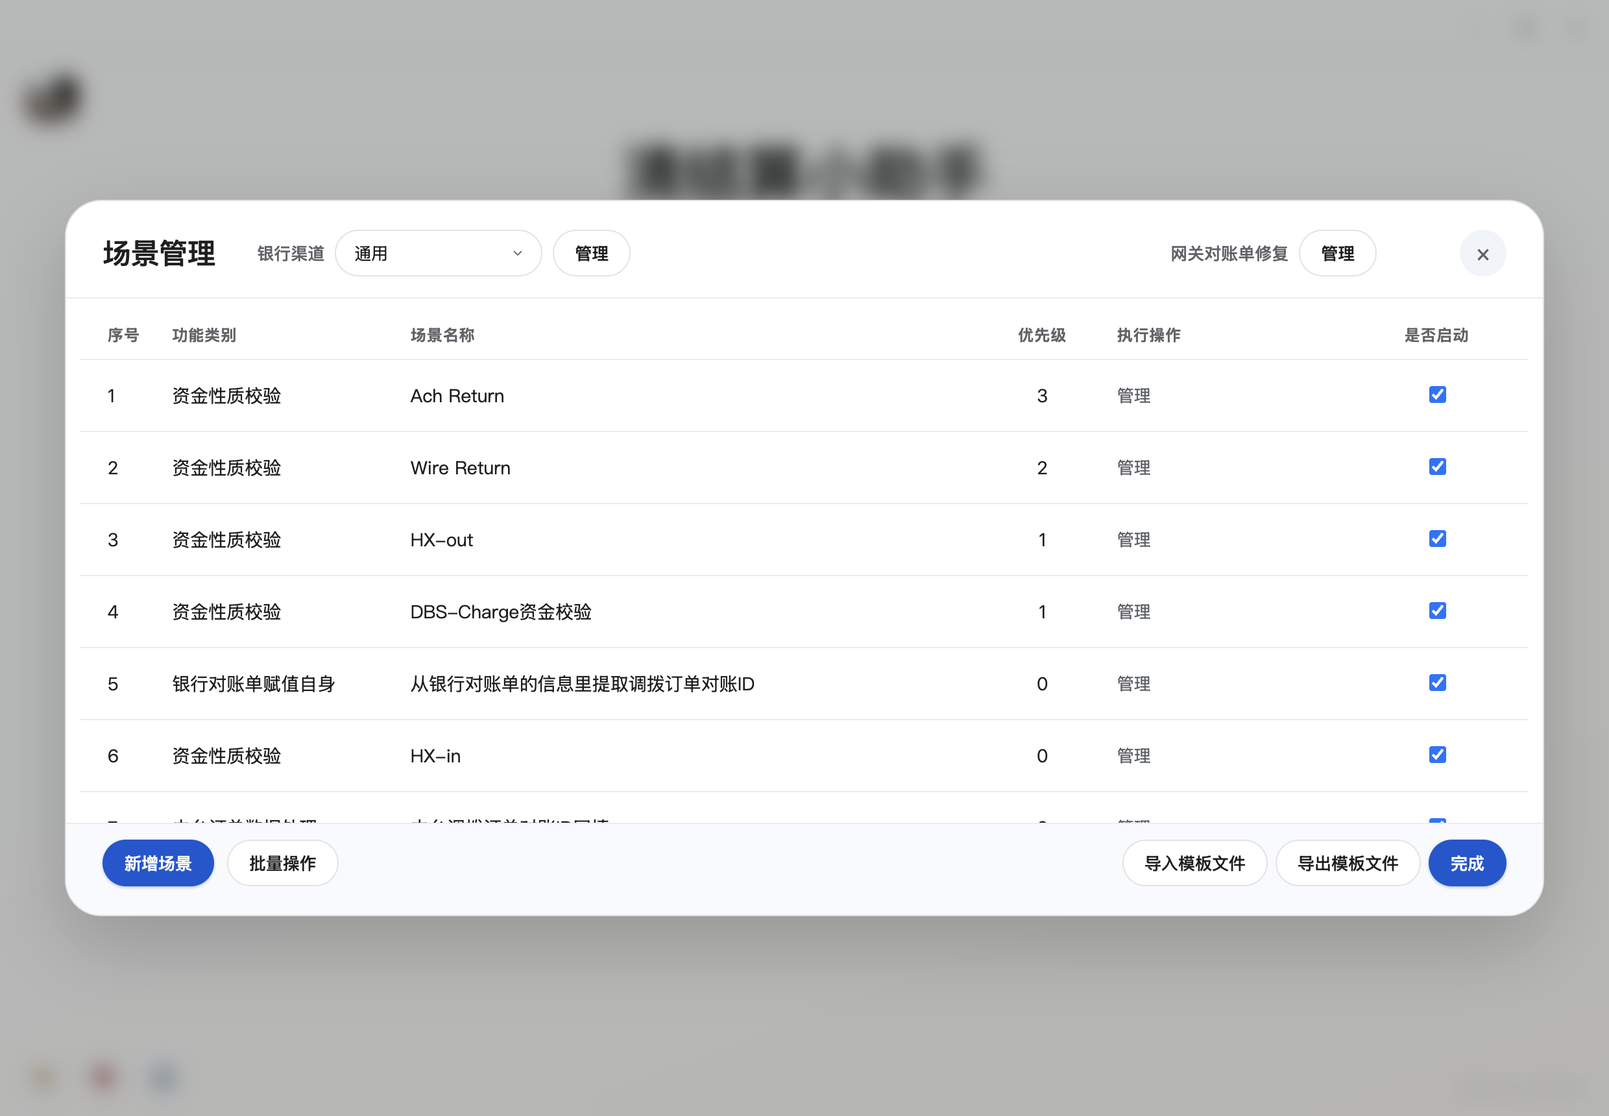
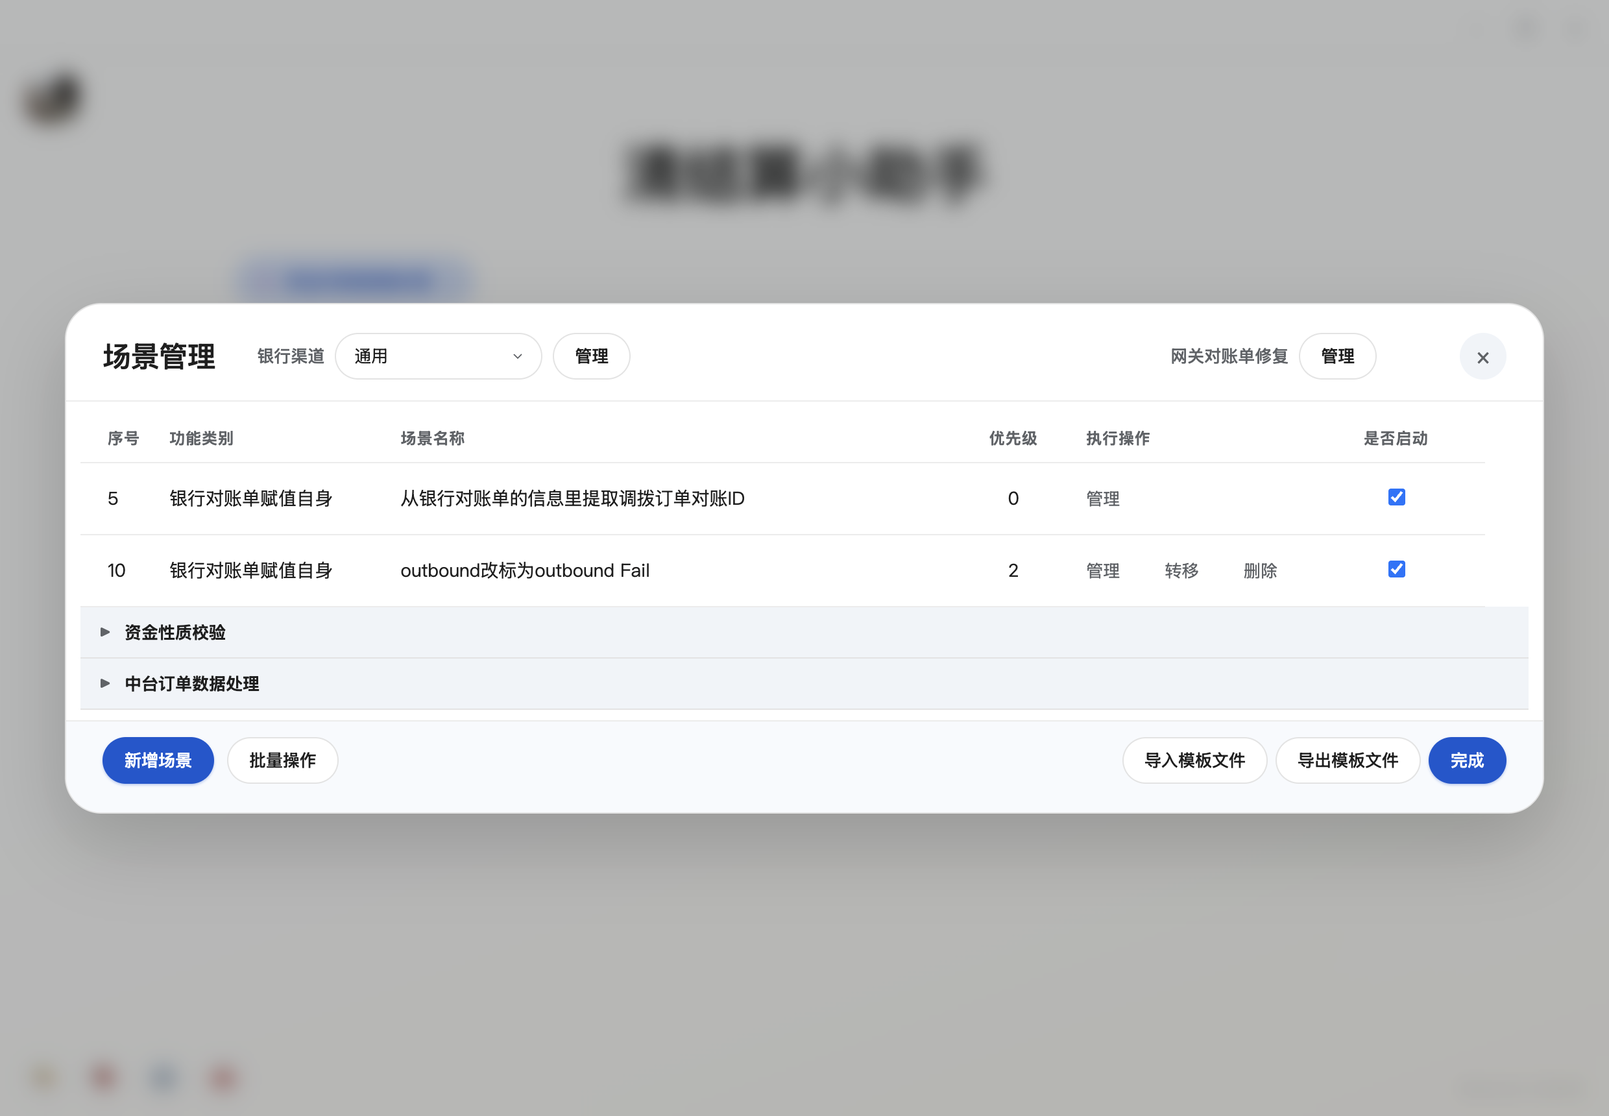
[v3.0.8] 需求2 场景管理：退役 C3（前端隐藏，后端保留可回滚）+ 资金性质校验/中台订单两组三角折叠默认收纳

diff --git a/tests/unit/renderer-dialogs-scenario-group-collapse.test.js b/tests/unit/renderer-dialogs-scenario-group-collapse.test.js
@@ -1,0 +1,182 @@
+// v3.0.8 需求2（W6）：场景管理「退役 C3 + 分组三角折叠」前端源码断言
+//
+// renderer-dialogs.js 是 10000+ 行的浏览器 IIFE（依赖 DOM + deps 注入），无 jsdom 单测脚手架，
+// 故沿用本仓既有范式（renderer-dialogs-scenario-channel.test.js / renderer-dialogs-toolbox.test.js）：
+// 用源码字符串断言锁定关键交互/边界，防止后续重构无意回退。
+// 可视布局（默认两组收纳 + C3 消失）由 preview 截图 docs/previews/scenarios-manager.png 把关；
+// 展开/折叠端到端行为由手动测试把关（preview harness 同步 click 会扰动 modal 生命周期，无法稳定截图展开态）。
+//
+// 锁定要点（对齐 PRD v3.0.8 §5.2 + AC2-1..AC2-3；团队 W6 决策：仅前端过滤隐藏，零 migration 改动）：
+//   A. 退役 C3：refreshTable 渲染前过滤 category==='gateway-recon-join' 不显示（用户看不到、无法启用）。
+//   B. 分组：两大功能分组「资金性质校验」(fund-nature-check + dbs-charge-fund-check) /
+//      「中台订单数据处理」(platform-order)，组名复用 FUNC_CATEGORY_LABELS。
+//   C. 三角折叠：分组标题行 ▶/▼ + 子场景行按折叠态显隐，两组默认 collapsed；点三角 toggle。
+
+const { test, describe } = require('node:test');
+const assert = require('node:assert');
+const fs = require('node:fs');
+const path = require('node:path');
+
+const DIALOGS_PATH = path.join(__dirname, '..', '..', 'src', 'renderer-dialogs.js');
+const source = fs.readFileSync(DIALOGS_PATH, 'utf8');
+
+// 截取 createScenariosManagerDialog 函数体（从其声明到下一个同缩进 4 空格顶层 function 之前），
+// 缩小断言作用域，避免误命中文件别处同名字符串。
+function sliceScenariosManagerDialog(src) {
+  const startToken = 'function createScenariosManagerDialog(';
+  const startIdx = src.indexOf(startToken);
+  assert.ok(startIdx >= 0, '源码应包含 createScenariosManagerDialog 工厂');
+  const after = src.indexOf('\n    function ', startIdx + startToken.length);
+  return after >= 0 ? src.slice(startIdx, after) : src.slice(startIdx);
+}
+
+const dialogSrc = sliceScenariosManagerDialog(source);
+
+describe('W6-A：退役 C3（仅前端过滤隐藏，零 migration 改动）', () => {
+  test('refreshTable 渲染前过滤 category==="gateway-recon-join" 不显示', () => {
+    // 关键过滤行：const scenarios = scenariosRaw.filter((s) => s.category !== 'gateway-recon-join');
+    assert.ok(
+      /\.filter\(\s*\(s\)\s*=>\s*s\.category\s*!==\s*'gateway-recon-join'\s*\)/.test(dialogSrc),
+      'refreshTable 应过滤掉 category==="gateway-recon-join" 的场景（C3 退役隐藏）'
+    );
+  });
+
+  test('过滤发生在补 config / 白名单 / 渠道过滤之前（用 scenariosRaw → scenarios 命名）', () => {
+    // 先 load 到 scenariosRaw，过滤 C3 得到 scenarios，后续链路全部基于已剔除 C3 的 scenarios。
+    assert.ok(
+      dialogSrc.includes('const scenariosRaw = await loadScenariosOrAlert();'),
+      'refreshTable 应先 load 到 scenariosRaw'
+    );
+    const filterIdx = dialogSrc.indexOf("s.category !== 'gateway-recon-join'");
+    const builtinConfigIdx = dialogSrc.indexOf(".filter((s) => s.category === 'builtin-fixed')");
+    assert.ok(filterIdx >= 0 && builtinConfigIdx >= 0 && filterIdx < builtinConfigIdx,
+      'C3 过滤应早于 builtin-fixed 补 config（确保 C3 不参与任何后续渲染分支）');
+  });
+
+  test('不触碰后端：本前端改动不引入 migrations / 引擎 / dispatcher 改动（注释明确可回滚红线）', () => {
+    // 退役策略注释应说明「仅前端过滤隐藏」「后端全不动」。
+    assert.ok(/仅前端过滤隐藏/.test(dialogSrc), '应注明退役策略为仅前端过滤隐藏（可回滚）');
+  });
+});
+
+describe('W6-B：两大功能分组（组名复用 FUNC_CATEGORY_LABELS）', () => {
+  test('定义 SCENARIO_GROUP_DEFS：资金性质校验组含 fund-nature-check + dbs-charge-fund-check', () => {
+    assert.ok(dialogSrc.includes('const SCENARIO_GROUP_DEFS = ['), '应定义 SCENARIO_GROUP_DEFS');
+    assert.ok(
+      /key:\s*'fund-nature-check'[\s\S]*?funcCategories:\s*\[\s*'fund-nature-check'\s*,\s*'dbs-charge-fund-check'\s*\]/.test(dialogSrc),
+      '资金性质校验组应归并 fund-nature-check + dbs-charge-fund-check'
+    );
+  });
+
+  test('中台订单数据处理组 = platform-order', () => {
+    assert.ok(
+      /key:\s*'platform-order'[\s\S]*?funcCategories:\s*\[\s*'platform-order'\s*\]/.test(dialogSrc),
+      '中台订单数据处理组应为 platform-order'
+    );
+  });
+
+  test('组名复用 FUNC_CATEGORY_LABELS（避免硬编码漂移）', () => {
+    assert.ok(
+      dialogSrc.includes("label: FUNC_CATEGORY_LABELS['fund-nature-check']")
+      && dialogSrc.includes("label: FUNC_CATEGORY_LABELS['platform-order']"),
+      'SCENARIO_GROUP_DEFS 的 label 应取自 FUNC_CATEGORY_LABELS'
+    );
+  });
+
+  test('getScenarioGroupKey：无 funcCategory（含 C1/C2/无 funcCategory 的 builtin-fixed）→ null（扁平）', () => {
+    assert.ok(dialogSrc.includes('function getScenarioGroupKey(scenario)'), '应有 getScenarioGroupKey');
+    // funcCategory 缺失 → return null（扁平显示，不强制分组）
+    assert.ok(
+      /function getScenarioGroupKey\(scenario\)\s*\{[\s\S]*?if\s*\(!funcCategory\)\s*return null;/.test(dialogSrc),
+      'getScenarioGroupKey 对无 funcCategory 的场景返回 null（扁平）'
+    );
+  });
+});
+
+describe('W6-C：三角折叠 + 默认收纳', () => {
+  test('两组默认 collapsed：collapsedGroups 初始含全部分组 key', () => {
+    assert.ok(
+      dialogSrc.includes('const collapsedGroups = new Set(SCENARIO_GROUP_DEFS.map((g) => g.key));'),
+      'collapsedGroups 应初始化为全部分组 key（两组默认收纳）'
+    );
+  });
+
+  test('分组标题行带 ▶/▼ 三角 + data-action="toggle-group"', () => {
+    assert.ok(dialogSrc.includes('function renderGroupHeaderRow('), '应有 renderGroupHeaderRow');
+    assert.ok(dialogSrc.includes("scenario-group-header"), '分组标题行应有 .scenario-group-header class');
+    assert.ok(
+      /const triangle = collapsed \? '▶' : '▼';/.test(dialogSrc),
+      '折叠态用 ▶、展开态用 ▼'
+    );
+    assert.ok(dialogSrc.includes('data-action="toggle-group"'), '标题行三角按钮带 data-action="toggle-group"');
+    assert.ok(dialogSrc.includes('class="scenario-group-toggle"'), '应有 .scenario-group-toggle 按钮');
+  });
+
+  test('分组标题行 colspan 跟随可见列数（checkbox+id+category+name+actions 基础 5 列 + 优先级/启用）', () => {
+    assert.ok(dialogSrc.includes('function getScenarioTableColSpan()'), '应有 getScenarioTableColSpan');
+    assert.ok(
+      /return 5 \+ \(isCompactView \? 0 : 1\) \+ \(showEnabledCol \? 1 : 0\);/.test(dialogSrc),
+      'colspan = 5 + (非compact 的优先级列) + (showEnabledCol 的启用列)'
+    );
+  });
+
+  test('子场景行标记 data-group + scenario-group-row，初始折叠态加 .collapsed', () => {
+    assert.ok(
+      /tr\.dataset\.group = groupKey;[\s\S]*?tr\.classList\.add\('scenario-group-row'\);[\s\S]*?if \(collapsedGroups\.has\(groupKey\)\) tr\.classList\.add\('collapsed'\);/.test(dialogSrc),
+      'renderRow 对分组子行应打 data-group + scenario-group-row，并按 collapsedGroups 加 .collapsed'
+    );
+  });
+
+  test('refreshTable 分组渲染：扁平场景先渲染，再每组插标题 + 子行；空组不渲标题', () => {
+    assert.ok(
+      dialogSrc.includes('const flatScenarios = visible.filter((s) => getScenarioGroupKey(s) === null);'),
+      '应先取无分组（扁平）场景'
+    );
+    assert.ok(
+      dialogSrc.includes('tbody.appendChild(renderGroupHeaderRow(group.key, group.label, collapsed));'),
+      '应为每个非空组渲染分组标题行'
+    );
+    assert.ok(
+      /if \(members\.length === 0\) return;/.test(dialogSrc),
+      '空组（无场景）不渲分组标题'
+    );
+  });
+
+  test('🔴 N3-1 红线：序号列用 scenario.displayIndex（派发口径），不用分组重排位置序数', () => {
+    // 分组只改渲染顺序，序号必须仍是 scenarios-repository 渠道内 builtin-fixed 优先 1-based displayIndex，
+    // 与 run 状态框 / 命中场景行报表共享同一口径（否则状态框「场景 N」与 UI 序号串号 → N3-1 修复失效）。
+    assert.ok(
+      /const displayNumberOf = \(scenario, fallbackPos\) =>\s*\n?\s*Number\.isFinite\(Number\(scenario\.displayIndex\)\)\s*\?\s*Number\(scenario\.displayIndex\)\s*:\s*fallbackPos;/.test(dialogSrc),
+      '应定义 displayNumberOf：优先 scenario.displayIndex，缺失才回退位次'
+    );
+    assert.ok(
+      dialogSrc.includes('renderRow(scenario, displayNumberOf(scenario, fallbackPos), null)')
+      && dialogSrc.includes('renderRow(scenario, displayNumberOf(scenario, fallbackPos), group.key)'),
+      '扁平行与分组子行的序号都走 displayNumberOf（统一派发口径）'
+    );
+    // 防回退：tbody.appendChild 渲染调用不得直接把递增位置序数当序号传入（须经 displayNumberOf）。
+    assert.ok(
+      !/appendChild\(renderRow\(scenario, displayIndex,/.test(dialogSrc),
+      '渲染调用不得直接用位置序数 displayIndex 作为序号（会破坏 N3-1 一致性）'
+    );
+  });
+
+  test('toggleScenarioGroup：翻转 collapsedGroups + 子行 .collapsed + 三角字符', () => {
+    assert.ok(dialogSrc.includes('function toggleScenarioGroup(groupKey)'), '应有 toggleScenarioGroup');
+    assert.ok(
+      /tr\.classList\.toggle\('collapsed', willCollapse\);/.test(dialogSrc),
+      'toggle 时子行按 willCollapse 切换 .collapsed'
+    );
+    assert.ok(
+      /triangle\.textContent = willCollapse \? '▶' : '▼';/.test(dialogSrc),
+      'toggle 时三角字符随折叠态翻转'
+    );
+  });
+
+  test('tbody click 委托优先处理 toggle-group（先于 row-action 行操作）', () => {
+    assert.ok(
+      /const groupToggle = event\.target\.closest\('\[data-action="toggle-group"\]'\);[\s\S]*?toggleScenarioGroup\(groupToggle\.dataset\.group\);[\s\S]*?return;/.test(dialogSrc),
+      'tbody click handler 应先识别 toggle-group 并调 toggleScenarioGroup'
+    );
+  });
+});

diff --git a/src/renderer-dialogs.js b/src/renderer-dialogs.js
@@ -6867,12 +6867,65 @@
         : 1;
       state.activeScenarioChannelId = activeChannelId;
 
-      function renderRow(scenario, displayIndex) {
+      // v3.0.8 需求2（W6）：场景管理两大功能分组三角折叠。
+      //   分组键 = config.funcCategory 归并：
+      //     - 'fund-nature-check' + 'dbs-charge-fund-check' → 组「资金性质校验」（groupKey='fund-nature-check'）
+      //     - 'platform-order'                              → 组「中台订单数据处理」（groupKey='platform-order'）
+      //   无 funcCategory 或不在上述集合的场景（既有 builtin-fixed「从银行对账单提取调拨订单对账ID」/ C1 / C2 等）
+      //   → groupKey=null，保持原扁平显示（不强制分组、不折叠）。
+      //   组名复用 FUNC_CATEGORY_LABELS（renderer-dialogs.js:5621），避免硬编码漂移。
+      const SCENARIO_GROUP_DEFS = [
+        { key: 'fund-nature-check', label: FUNC_CATEGORY_LABELS['fund-nature-check'], funcCategories: ['fund-nature-check', 'dbs-charge-fund-check'] },
+        { key: 'platform-order', label: FUNC_CATEGORY_LABELS['platform-order'], funcCategories: ['platform-order'] }
+      ];
+      // 两组默认 collapsed（收纳）；折叠态为前端临时状态（不持久化，每次打开弹框默认收纳）。
+      const collapsedGroups = new Set(SCENARIO_GROUP_DEFS.map((g) => g.key));
+
+      // 取场景所属分组键（无匹配 → null = 扁平显示）。
+      function getScenarioGroupKey(scenario) {
+        const funcCategory = scenario && scenario.config && scenario.config.funcCategory;
+        if (!funcCategory) return null;
+        const hit = SCENARIO_GROUP_DEFS.find((g) => g.funcCategories.includes(funcCategory));
+        return hit ? hit.key : null;
+      }
+
+      // 当前表格可见列数（用于分组标题行 colspan）：
+      //   勾选列（始终存在，仅 display 切换）+ 序号 + 功能类别 + 场景名称 + 执行操作 = 5 基础列；
+      //   优先级（非 compact）+ 是否启动（showEnabledCol）按视图模式叠加。
+      function getScenarioTableColSpan() {
+        return 5 + (isCompactView ? 0 : 1) + (showEnabledCol ? 1 : 0);
+      }
+
+      // 渲染分组标题行（含 ▶/▼ 三角 + 组名）。子场景行带 data-group=groupKey，按折叠态显隐。
+      function renderGroupHeaderRow(groupKey, label, collapsed) {
+        const tr = document.createElement('tr');
+        tr.className = 'scenario-group-header';
+        tr.dataset.groupHeader = groupKey;
+        const triangle = collapsed ? '▶' : '▼';
+        tr.innerHTML = `
+          <td class="scenario-group-header-cell" colspan="${getScenarioTableColSpan()}">
+            <button type="button" class="scenario-group-toggle" data-action="toggle-group" data-group="${escapeHtml(groupKey)}" aria-expanded="${collapsed ? 'false' : 'true'}">
+              <span class="scenario-group-triangle">${triangle}</span>
+              <span class="scenario-group-label">${escapeHtml(label)}</span>
+            </button>
+          </td>
+        `;
+        return tr;
+      }
+
+      function renderRow(scenario, displayIndex, groupKey) {
         const tr = document.createElement('tr');
         tr.dataset.id = String(scenario.id);
         tr.dataset.category = scenario.category;
         // v2.1.16-beta.5 需求2（PR-4 修订）：标记 is_builtin → 批量收集（collectChecked*）据此双保险排除内置写死场景。
         tr.dataset.builtin = scenario.isBuiltin === true ? '1' : '0';
+        // v3.0.8 需求2（W6）：分组子场景行标记 data-group + scenario-group-row class；折叠态加 .collapsed（CSS display:none）。
+        //   扁平行 groupKey=null 不标记、恒显。
+        if (groupKey) {
+          tr.dataset.group = groupKey;
+          tr.classList.add('scenario-group-row');
+          if (collapsedGroups.has(groupKey)) tr.classList.add('collapsed');
+        }
         // v2.1.0-beta.2 PR-A Round 2：
         // - task R2-7：序号 = 列表内 1-based 顺序号（不再用真实 scenarios.id；dataset.id 仍是真实 id 用于 IPC）
         // - task R2-8：compact 模式（单类别入口）隐藏 优先级 + 是否启动 td
@@ -6982,8 +7035,12 @@
       }
 
       async function refreshTable() {
-        const scenarios = await loadScenariosOrAlert();
-        if (scenarios === null) return;
+        const scenariosRaw = await loadScenariosOrAlert();
+        if (scenariosRaw === null) return;
+        // v3.0.8 需求2（W6）：退役自带场景 C3「与网关对账单根据金额币种一对一匹配对账ID」（category='gateway-recon-join'）
+        //   —— 仅前端过滤隐藏（用户看不到、无法启用），最大可回滚、零 migration 风险。
+        //   后端引擎 / dispatcher case / CHECK 约束 / 已有库记录 / 新库 seed 全不动；新库 seed 的 enabled=0 C3 被此过滤等效退役。
+        const scenarios = scenariosRaw.filter((s) => s.category !== 'gateway-recon-join');
         // v2.1.16 需求1：listScenarios 不返 config → 为 builtin-fixed 行补 config，
         //   使「功能类别」列能按 config.funcCategory 显示业务分组（资金性质校验 / 中台订单数据处理）。
         await Promise.all(
@@ -7008,12 +7065,55 @@
         // v2.1.13 D-2：自带写死场景（builtin-fixed）置顶（序号固定 1）；其余保持 listScenarios 原序（stable sort）
         visible.sort((a, b) => (a.category === 'builtin-fixed' ? 0 : 1) - (b.category === 'builtin-fixed' ? 0 : 1));
         tbody.innerHTML = '';
-        // v2.1.0-beta.2 PR-A Round 2（task R2-7）：传 displayIndex（1-based 列表内顺序）给 renderRow
-        visible.forEach((scenario, idx) => {
-          tbody.appendChild(renderRow(scenario, idx + 1));
+        // v3.0.8 需求2（W6）：二级分组渲染（纯视觉重排，序号口径不变）。
+        //   ① 无分组场景（groupKey=null）保持原扁平显示，按上面的 builtin-first 顺序先渲染（含 C1/C2/既有 builtin-fixed）。
+        //   ② 「资金性质校验」「中台订单数据处理」两组各插一行分组标题（▶/▼ 三角），子场景行按折叠态显隐，默认 collapsed。
+        // 🔴 N3-1 一致性红线（rules/important-variables.md displayIndex）：序号列必须用 scenario.displayIndex
+        //   （scenarios-repository.listScenarios 渠道内 builtin-fixed 优先 1-based 派发口径，run 状态框 / 命中场景行报表共享同一份），
+        //   严禁用「分组重排后的位置序数」——否则 run 状态框「场景 N」与场景管理 UI 序号串号（N3-1 修复失效）。
+        //   分组只改渲染顺序与折叠显隐，不改任何场景的序号显示值；displayIndex 缺失时才回退列表位次（兜底）。
+        const displayNumberOf = (scenario, fallbackPos) =>
+          Number.isFinite(Number(scenario.displayIndex)) ? Number(scenario.displayIndex) : fallbackPos;
+        let fallbackPos = 0;
+        const flatScenarios = visible.filter((s) => getScenarioGroupKey(s) === null);
+        // v2.1.0-beta.2 PR-A Round 2（task R2-7）：序号优先取 displayIndex（派发口径），缺失才回退位次。
+        flatScenarios.forEach((scenario) => {
+          fallbackPos += 1;
+          tbody.appendChild(renderRow(scenario, displayNumberOf(scenario, fallbackPos), null));
+        });
+        SCENARIO_GROUP_DEFS.forEach((group) => {
+          const members = visible.filter((s) => getScenarioGroupKey(s) === group.key);
+          if (members.length === 0) return; // 该组无场景 → 不渲分组标题（避免空组）
+          const collapsed = collapsedGroups.has(group.key);
+          tbody.appendChild(renderGroupHeaderRow(group.key, group.label, collapsed));
+          members.forEach((scenario) => {
+            fallbackPos += 1;
+            tbody.appendChild(renderRow(scenario, displayNumberOf(scenario, fallbackPos), group.key));
+          });
         });
         // v2.1.9 N5 Phase 5 T21：refresh 后重置「全选」状态（新建 rows 都未勾）
         if (selectAllCheckbox) selectAllCheckbox.checked = false;
+      }
+
+      // v3.0.8 需求2（W6）：折叠态切换 —— 不重渲整表，仅翻转该组 collapsed 标志 + 显隐子行 + 翻转三角。
+      function toggleScenarioGroup(groupKey) {
+        if (!groupKey) return;
+        const willCollapse = !collapsedGroups.has(groupKey);
+        if (willCollapse) {
+          collapsedGroups.add(groupKey);
+        } else {
+          collapsedGroups.delete(groupKey);
+        }
+        tbody.querySelectorAll(`tr[data-group="${groupKey}"]`).forEach((tr) => {
+          tr.classList.toggle('collapsed', willCollapse);
+        });
+        const headerRow = tbody.querySelector(`tr[data-group-header="${groupKey}"]`);
+        if (headerRow) {
+          const toggleBtn = headerRow.querySelector('[data-action="toggle-group"]');
+          if (toggleBtn) toggleBtn.setAttribute('aria-expanded', willCollapse ? 'false' : 'true');
+          const triangle = headerRow.querySelector('.scenario-group-triangle');
+          if (triangle) triangle.textContent = willCollapse ? '▶' : '▼';
+        }
       }
 
       // v2.1.9 N5：拉取渠道列表 + 填充 select 下拉
@@ -7085,6 +7185,12 @@
 
       // 委托：单一 click handler 处理 tbody 内所有 row-action
       tbody.addEventListener('click', async (event) => {
+        // v3.0.8 需求2（W6）：分组标题三角折叠（不属于 row-action，先于行操作处理）。
+        const groupToggle = event.target.closest('[data-action="toggle-group"]');
+        if (groupToggle) {
+          toggleScenarioGroup(groupToggle.dataset.group);
+          return;
+        }
         const button = event.target.closest('[data-row-action]');
         if (!button) return;
         const tr = button.closest('tr');

diff --git a/src/styles-gemini-extra.css b/src/styles-gemini-extra.css
@@ -2328,6 +2328,53 @@ select.mapping-text-input {
   border-bottom-color: rgba(66, 133, 244, 0.32);
 }
 
+/* v3.0.8 需求2（W6）：场景管理两大功能分组三角折叠。
+ *   分组标题行（整行 colspan）淡灰底，左侧 ▶/▼ 三角 + 组名；点击整条标题（toggle 按钮铺满）展开/收纳子场景行。 */
+.scenarios-table tbody tr.scenario-group-header > .scenario-group-header-cell {
+  padding: 0;
+  background: var(--chip-bg);
+  border-bottom: 1px solid var(--line);
+}
+
+.scenarios-table tbody tr.scenario-group-header .scenario-group-toggle {
+  display: flex;
+  align-items: center;
+  gap: 8px;
+  width: 100%;
+  padding: 10px 12px;
+  border: none;
+  background: transparent;
+  cursor: pointer;
+  text-align: left;
+  font-size: 13px;
+  font-weight: 600;
+  color: var(--text);
+  font-family: inherit;
+}
+
+.scenarios-table tbody tr.scenario-group-header .scenario-group-toggle:hover {
+  background: rgba(11, 87, 208, 0.06);
+}
+
+.scenarios-table tbody tr.scenario-group-header .scenario-group-triangle {
+  display: inline-block;
+  width: 14px;
+  font-size: 11px;
+  line-height: 1;
+  color: var(--muted);
+  text-align: center;
+  flex: 0 0 auto;
+}
+
+.scenarios-table tbody tr.scenario-group-header .scenario-group-label {
+  flex: 1 1 auto;
+}
+
+/* 折叠态子场景行隐藏：renderRow 初始 + toggleScenarioGroup 切换 .collapsed class（默认两组 collapsed） */
+.scenarios-table tbody tr.scenario-group-row.collapsed {
+  display: none;
+}
+
 .scenarios-manager-footer {
   padding-top: 12px;
 }

diff --git a/src/renderer-previews.js b/src/renderer-previews.js
@@ -807,6 +807,7 @@
     }
 
     // v2.0.0-beta.3：场景管理弹窗（含 3 内置场景）
+    // v3.0.8 需求2（W6）：默认打开即两组三角折叠收纳态（▶ 资金性质校验 / ▶ 中台订单数据处理）+ C3 已退役不显示。
     function applyScenariosManagerPreviewState() {
       setCurrentModule(MODULES.bankStatementProcess.id);
       setTimeout(() => {
